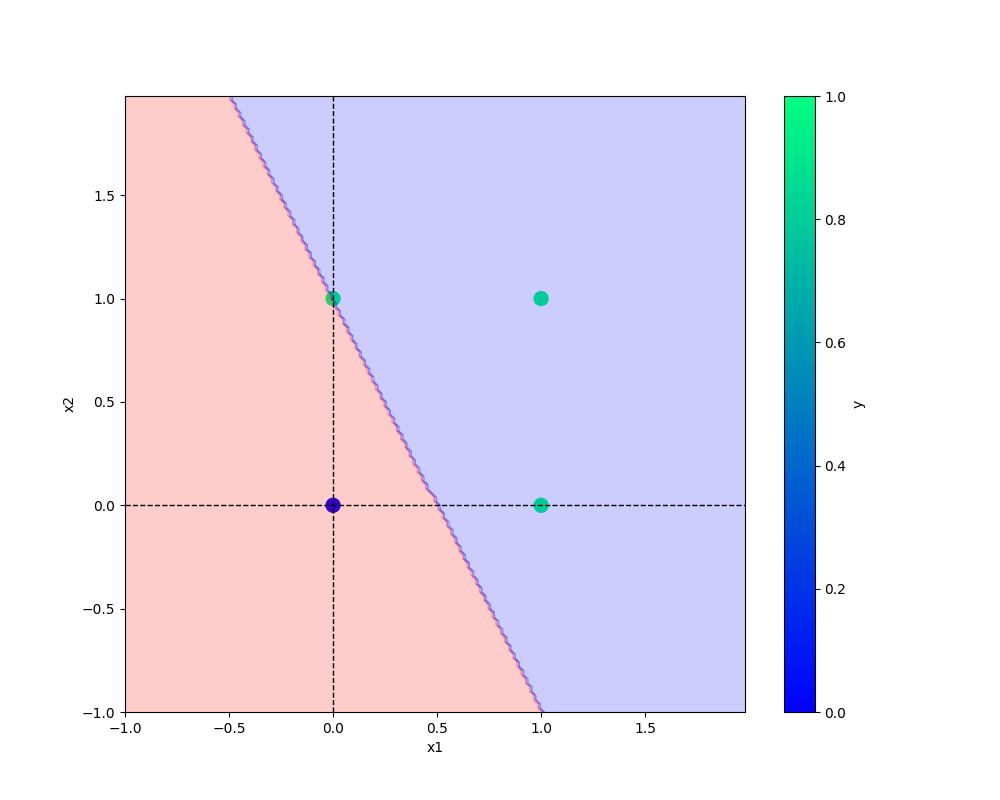
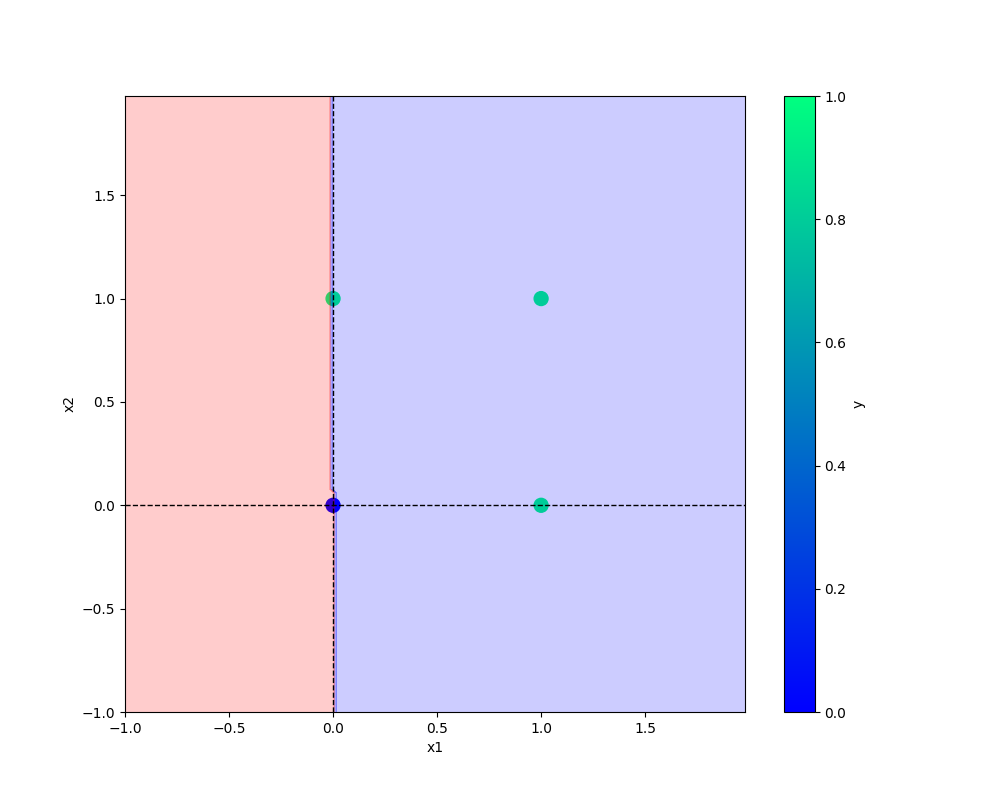
all file codes organisation completed - Intial state

Changed region(s): [[0.217, 0.0938, 0.558, 0.9062]]

diff --git a/utils/all_utils.py b/utils/all_utils.py
@@ -7,7 +7,14 @@ import matplotlib.pyplot as plt
 
 
 def prepare_data(df):
+  """It is used to separate the Independant and target Variables
 
+  Args:
+      df ([Pd.Dataframe]): [Its a Pandas Dataframe]
+
+  Returns:
+      tuple: [It returns the tuple of Independant and target variables]
+  """
   X = df.drop("y", axis=1)
 
   y = df["y"]
@@ -15,12 +22,25 @@ def prepare_data(df):
   return X, y
 
 def save_model(model, filename):
+  """[This saves the trained model]
+
+  Args:
+      model ([python object]): [Trained model]
+      filename ([str]): [Path to the save the trained model]
+  """
   model_dir = "models"
   os.makedirs(model_dir, exist_ok=True) # ONLY CREATE IF MODEL_DIR DOESN"T EXISTS
   filePath = os.path.join(model_dir, filename) # model/filename
   joblib.dump(model, filePath)
 
 def save_plot(df, file_name, model):
+  """[summary]
+
+  Args:
+      df ([type]): [description]
+      file_name ([type]): [description]
+      model ([type]): [description]
+  """
   def _create_base_plot(df):
     df.plot(kind="scatter", x="x1", y="x2", c="y", s=100, cmap="winter")
     plt.axhline(y=0, color="black", linestyle="--", linewidth=1)

diff --git a/or.py b/or.py
@@ -6,7 +6,7 @@ import pandas as pd
 def main(data , eta, epochs, filename, plot_file_name):
     
 
-    df = pd.DataFrame(AND)
+    df = pd.DataFrame(OR)
 
     X,y = prepare_data(df)
 
